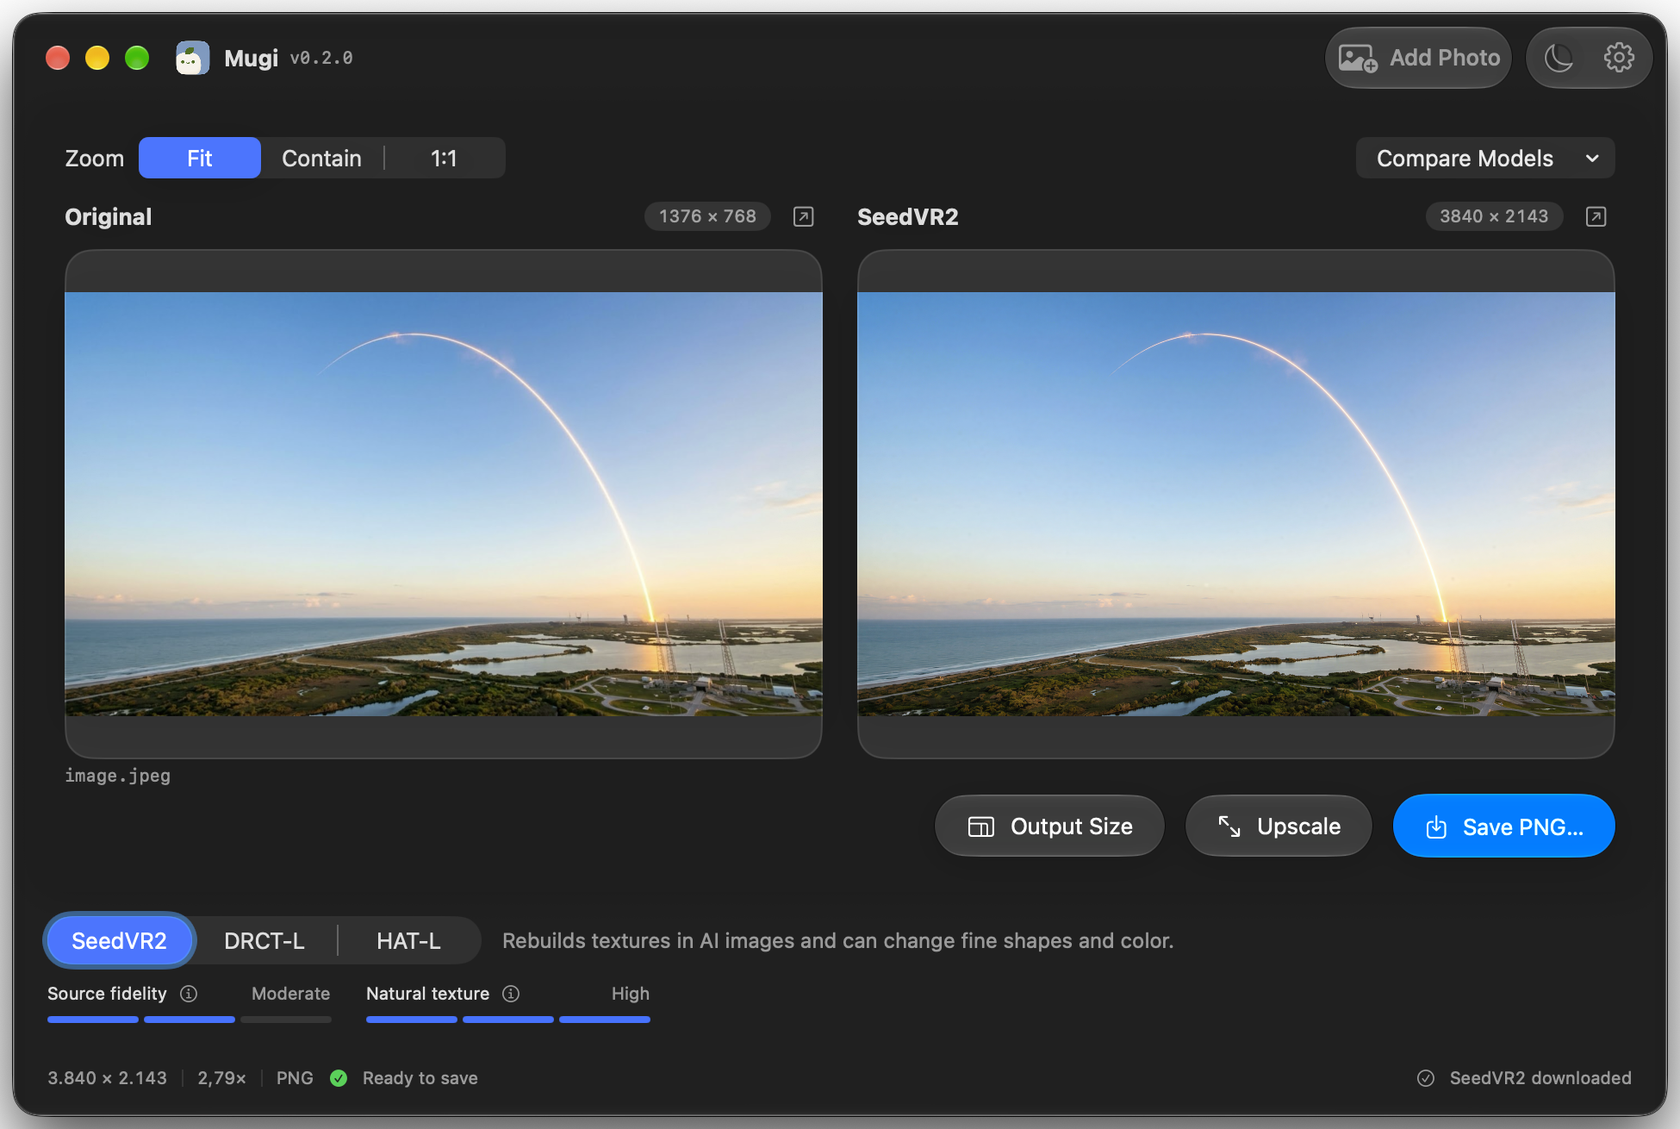
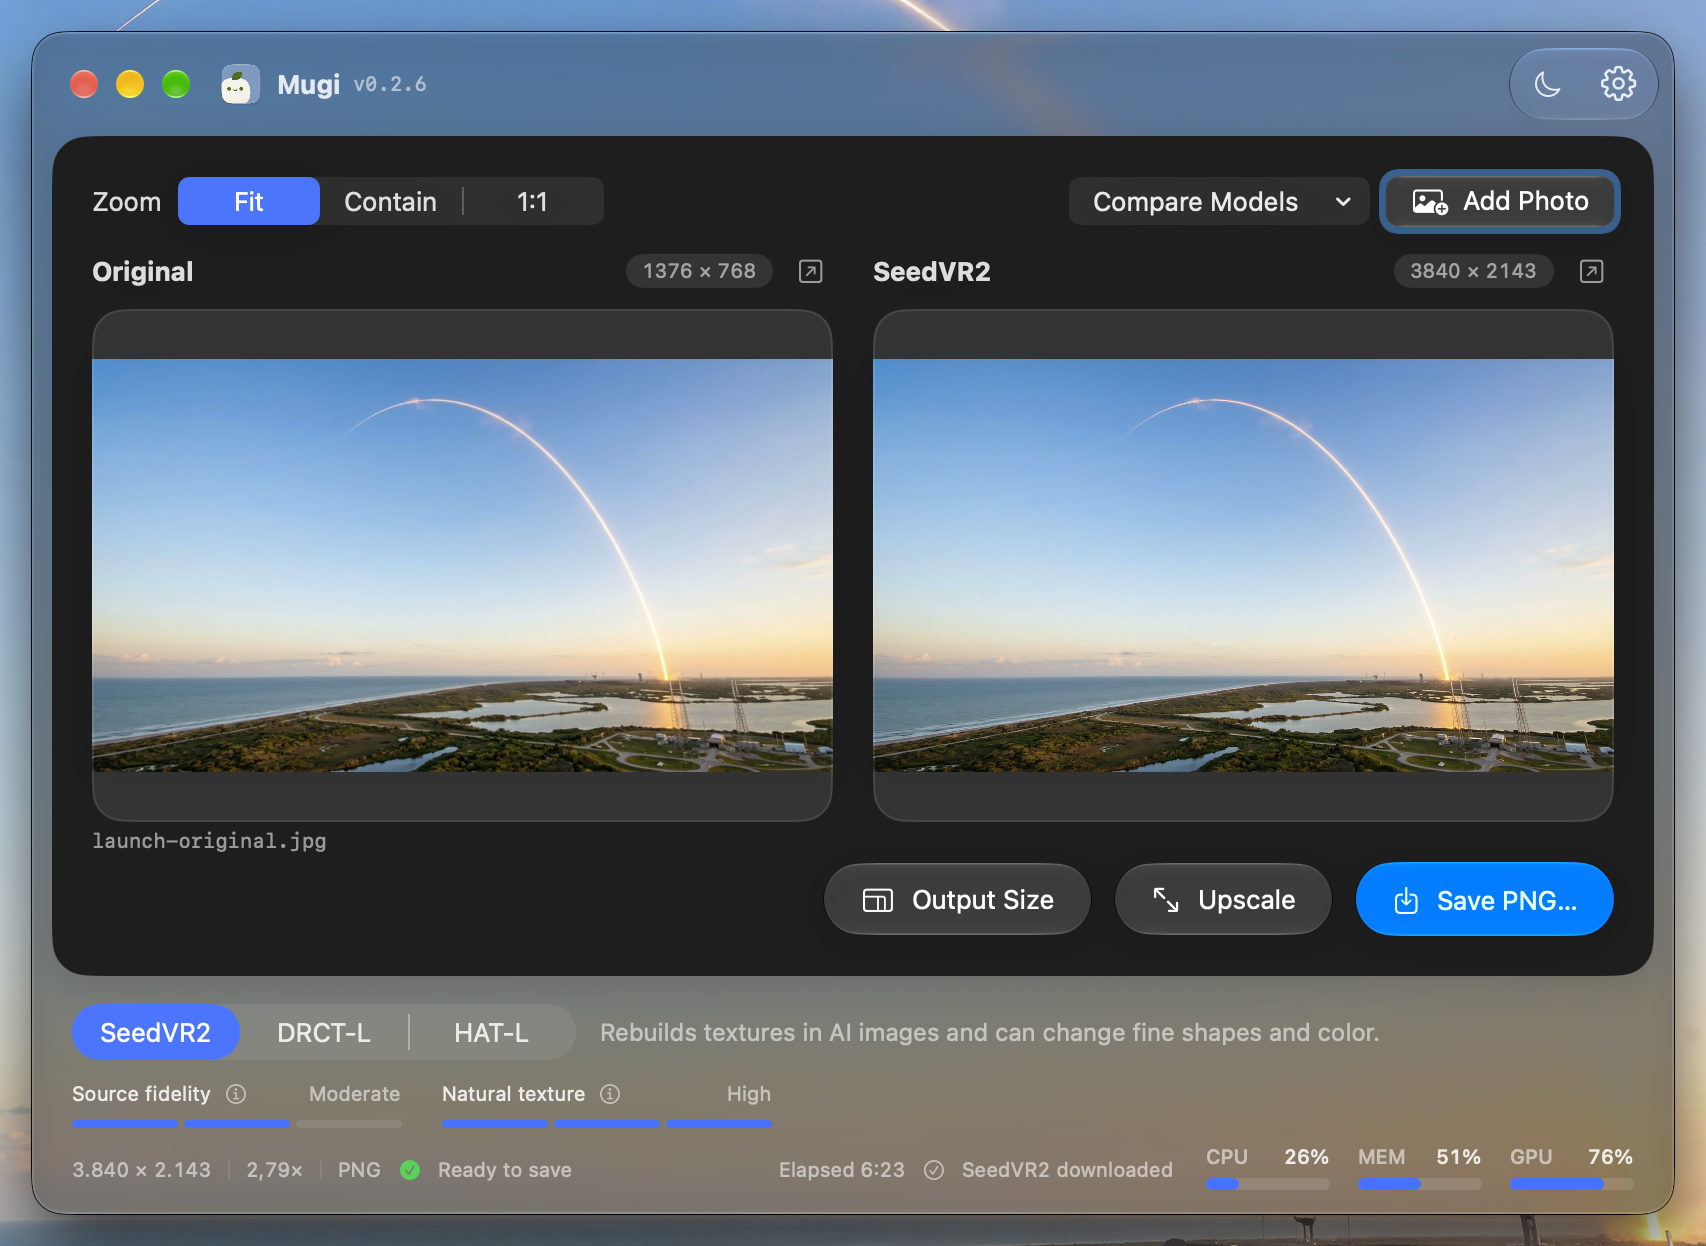
Refresh README preview with dark mode and Glass

diff --git a/README.md b/README.md
@@ -23,7 +23,9 @@ Mugi includes a native SwiftUI app and a command line tool. Choose SeedVR2 to re
 
 ## Preview
 
-![Mugi v0.2.0 showing the original launch image and the SeedVR2 result side by side, with output controls and model ratings below](assets/examples/mugi-screenshot.png)
+![Mugi in dark mode showing the original rocket launch photo and its 4K SeedVR2 upscale side by side, with a translucent window frame](assets/examples/mugi-screenshot.png)
+
+Mugi in Dark mode with Glass set to 80%. The frosted frame lets the wallpaper or window behind it show through. Adjust Glass in **Settings → General**.
 
 ### Before and after with SeedVR2
 
